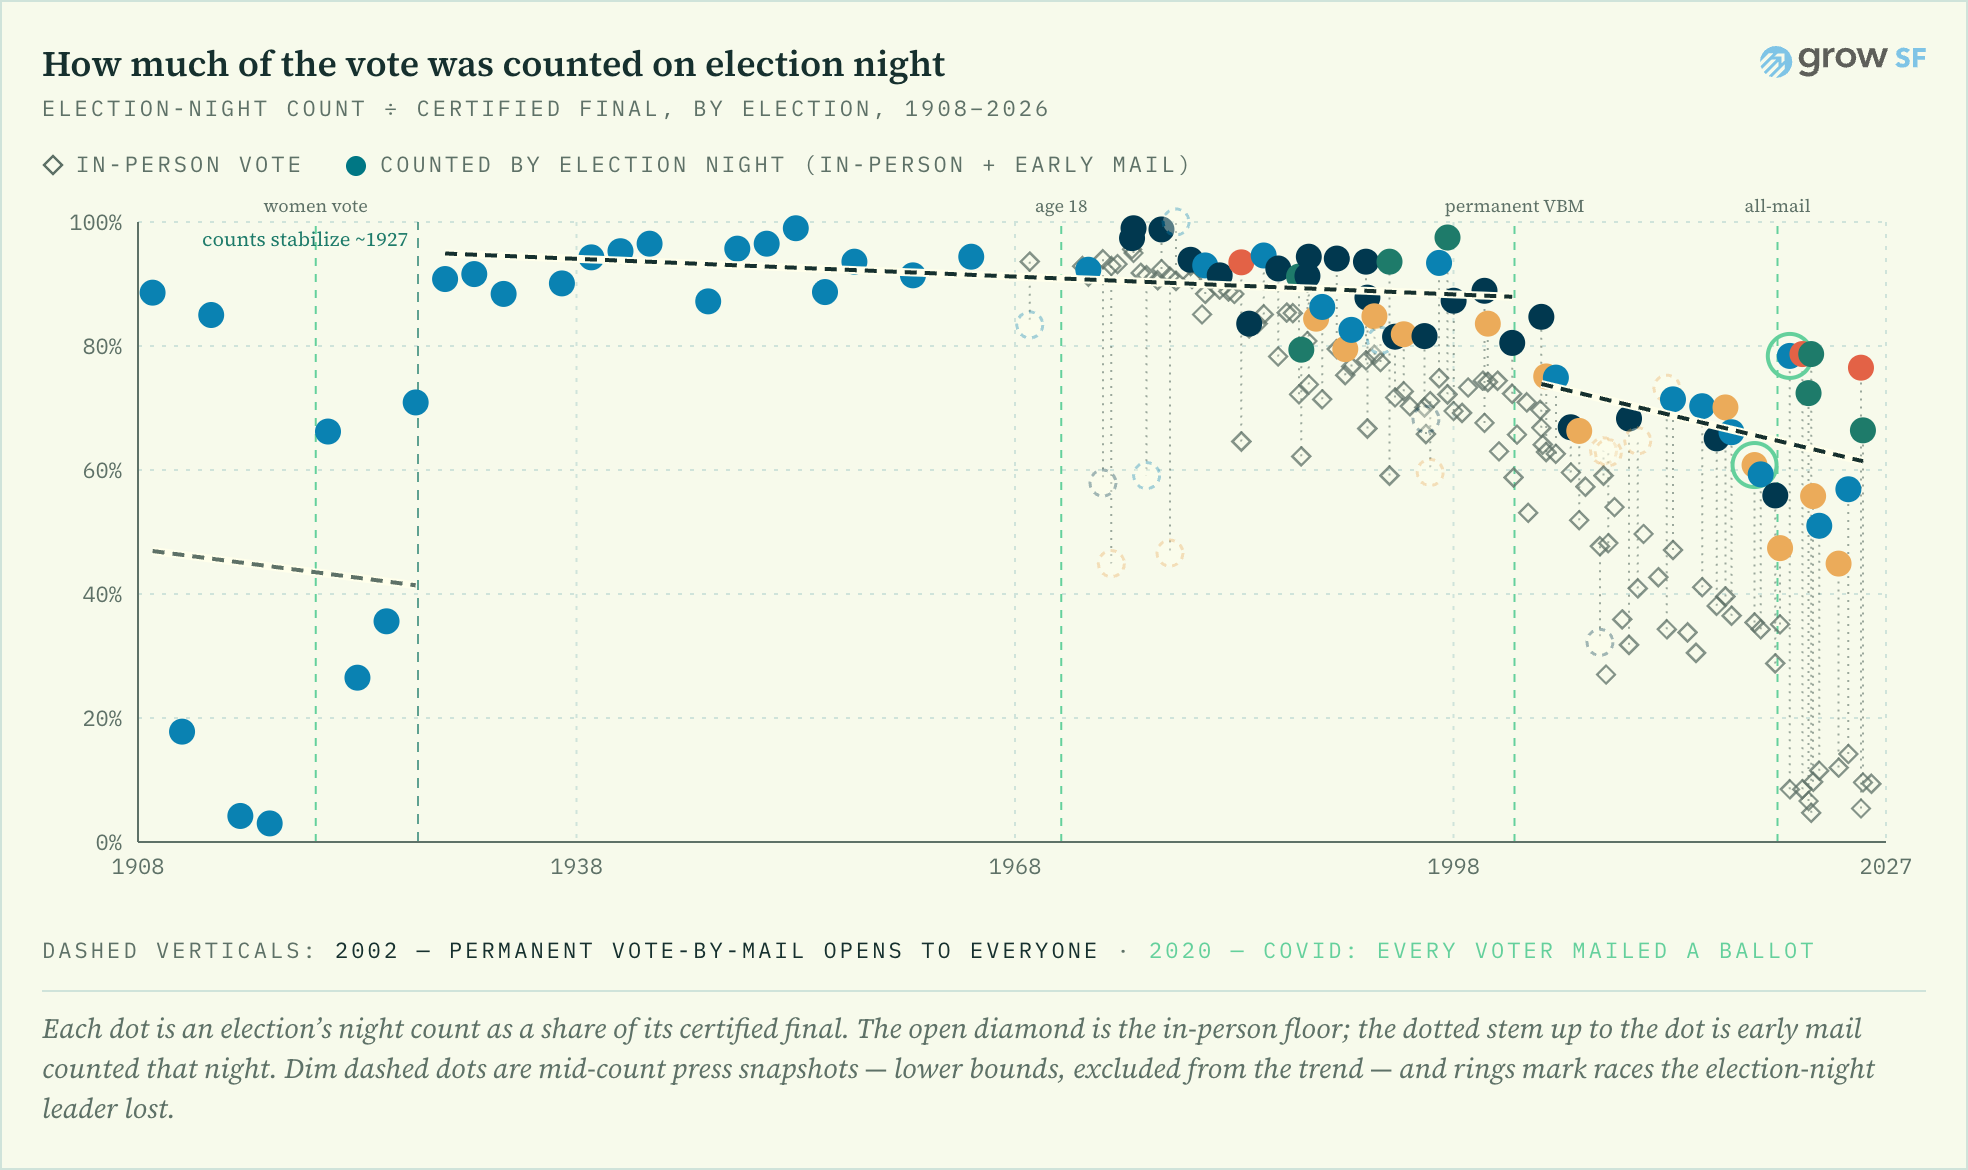
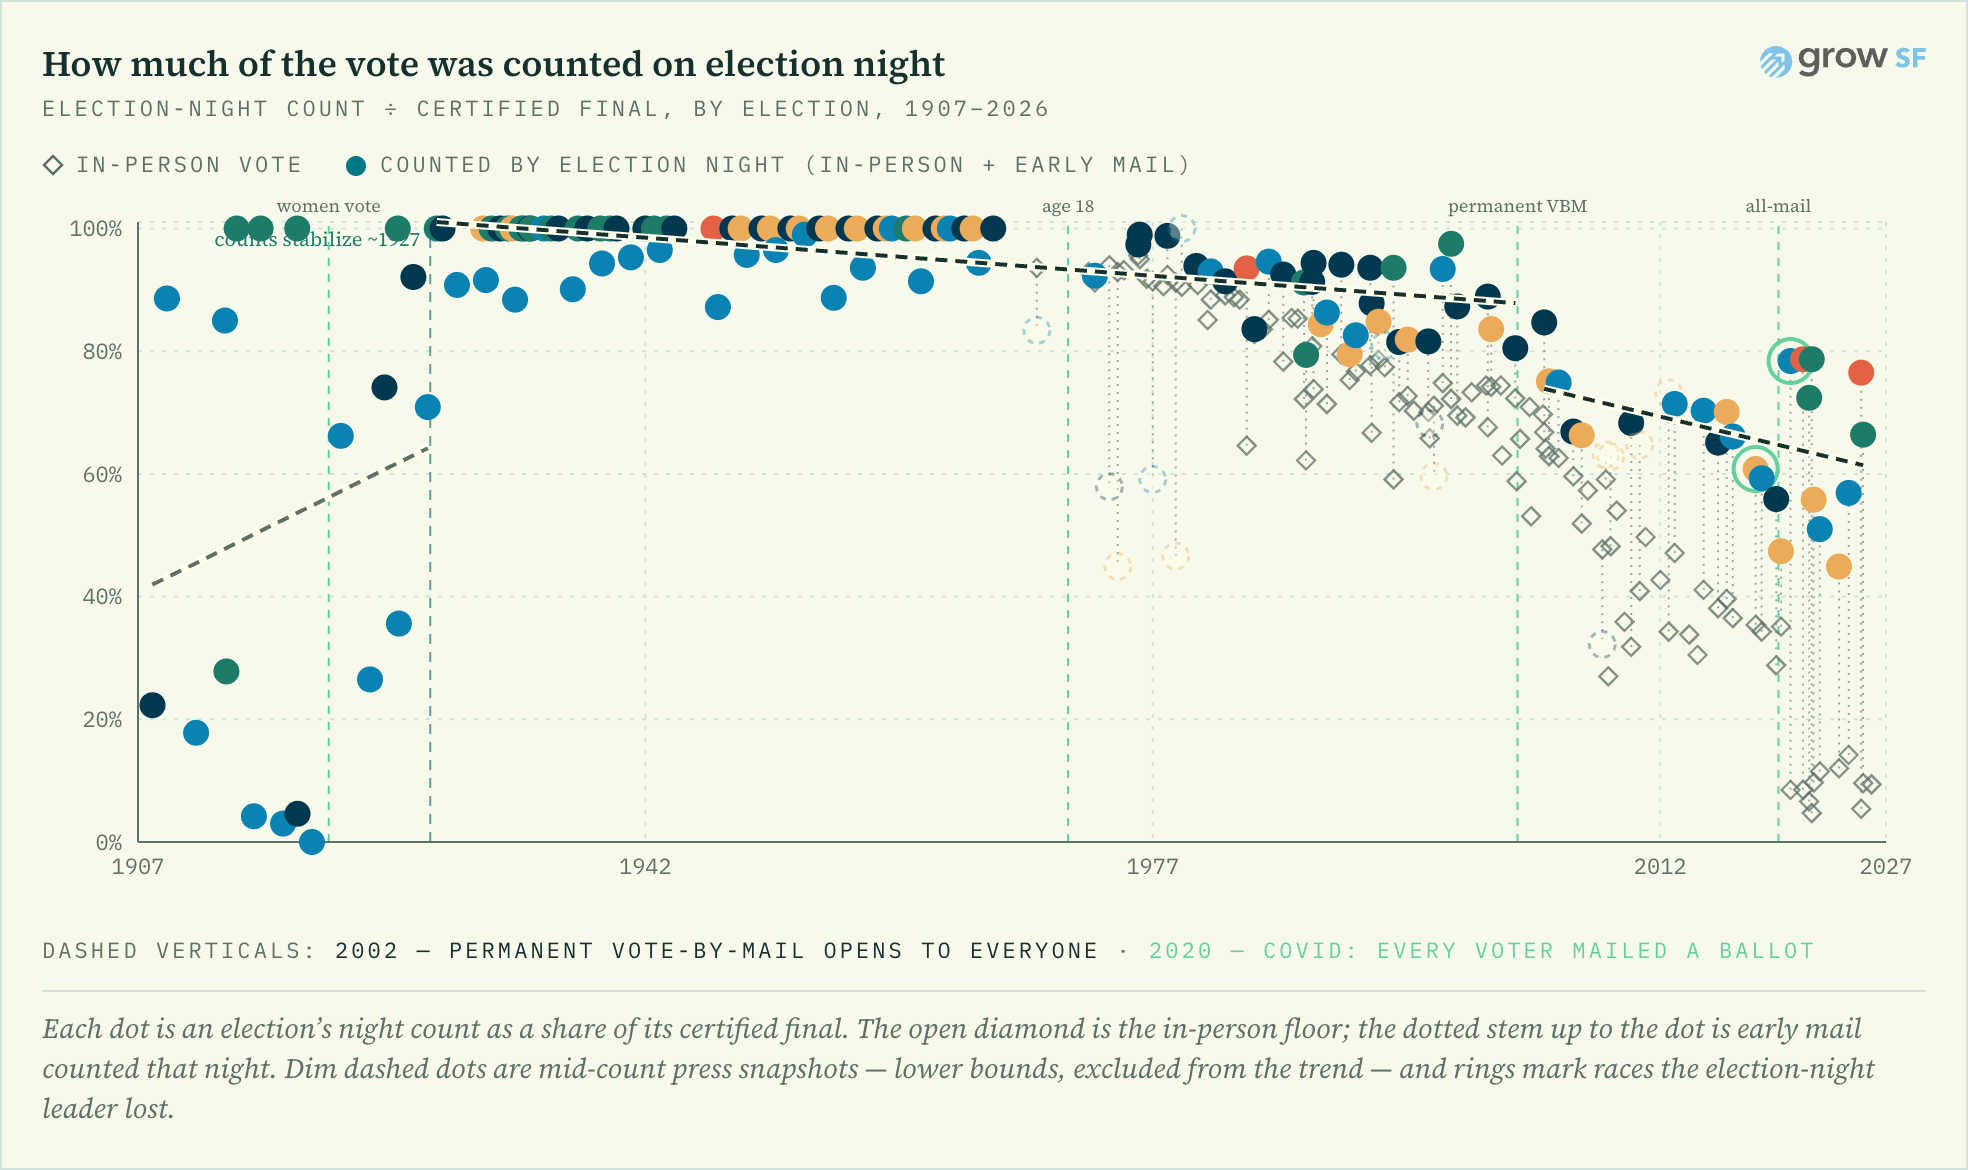
docs: regenerate night-share chart + README for the expanded 1907-2026 record
152 elections now have an election-night count (79 pre-1965 recovered);
chart subtitle and README stats updated; record now reaches back to 1907.

diff --git a/viz/src/components/NightShareChart.tsx b/viz/src/components/NightShareChart.tsx
@@ -191,7 +191,7 @@ export default function NightShareChart({
       )}
       <ChartFrame
         title="How much of the vote was counted on election night"
-        subtitle="Election-night count ÷ certified final, by election, 1908–2026"
+        subtitle="Election-night count ÷ certified final, by election, 1907–2026"
         note={
           <>
             Each dot is an election’s night count as a share of its certified

diff --git a/README.md b/README.md
@@ -15,13 +15,15 @@ historical counts from newspaper and web archives — and tells the story in an
 interactive site.
 
 Live data spans **1899–2026** (turnout and registration back to 1899;
-election-night counts back to 1908): 97 elections with an election-night count
-(including 22 pre-1964 counts recovered from the hand-count era, back to 1908),
-191 recovered historical canvass observations, and 241 modern per-release reports,
-every number traceable to a cited source. The long view reveals four eras, not
-one — fast (1908–12), slow (1914–26, when hand-counting long Progressive-era
-ballots was the bottleneck), fast again (1928–1990s), and the modern
-mail-driven slide — see
+election-night counts back to 1907): 152 elections with an election-night count
+(including 79 pre-1965 counts recovered from the hand-count and machine eras,
+back to 1907), 247 recovered historical canvass observations, and 241 modern
+per-release reports, every number traceable to a cited source. The long view
+reveals distinct eras — _erratic_ in the hand-count era (1907–1922, when ballot
+length, not the calendar, set the pace: ~89% counted by morning in 1908 but
+effectively nothing in 1918's long-ballot election), fast and near-complete once
+lever voting machines arrived (1928–1990s), and the modern mail-driven slide —
+see
 [`docs/analysis/2026-06-13-a-century-of-election-nights.md`](docs/analysis/2026-06-13-a-century-of-election-nights.md).
 
 ---
@@ -33,7 +35,7 @@ the morning after has collapsed since ~2002 — though the long view shows it
 failed before, too, in the 1910s, for the opposite reason (hand-counting long
 Progressive-era ballots).
 
-![Election-night count as a share of the certified final, San Francisco 1908–2026](docs/img/night-share.png)
+![Election-night count as a share of the certified final, San Francisco 1907–2026](docs/img/night-share.png)
 
 **What changed is the mail.** Vote-by-mail grew from a sliver in the 1960s to
 nine in ten today. Those ballots arrive late and need signature checks, so the